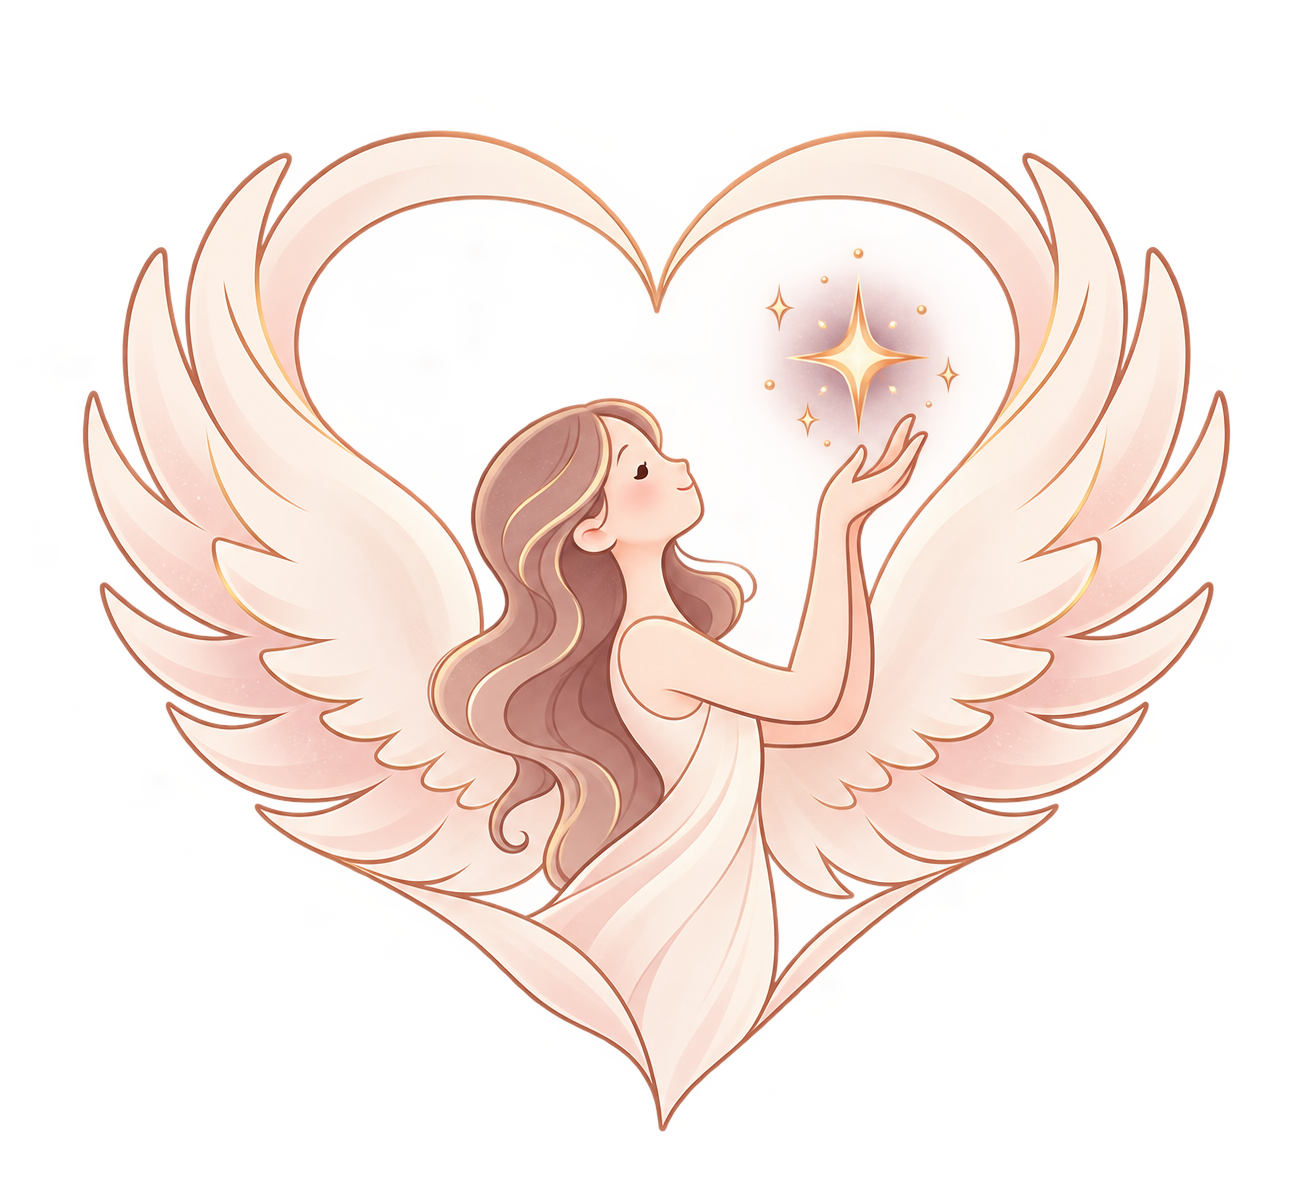
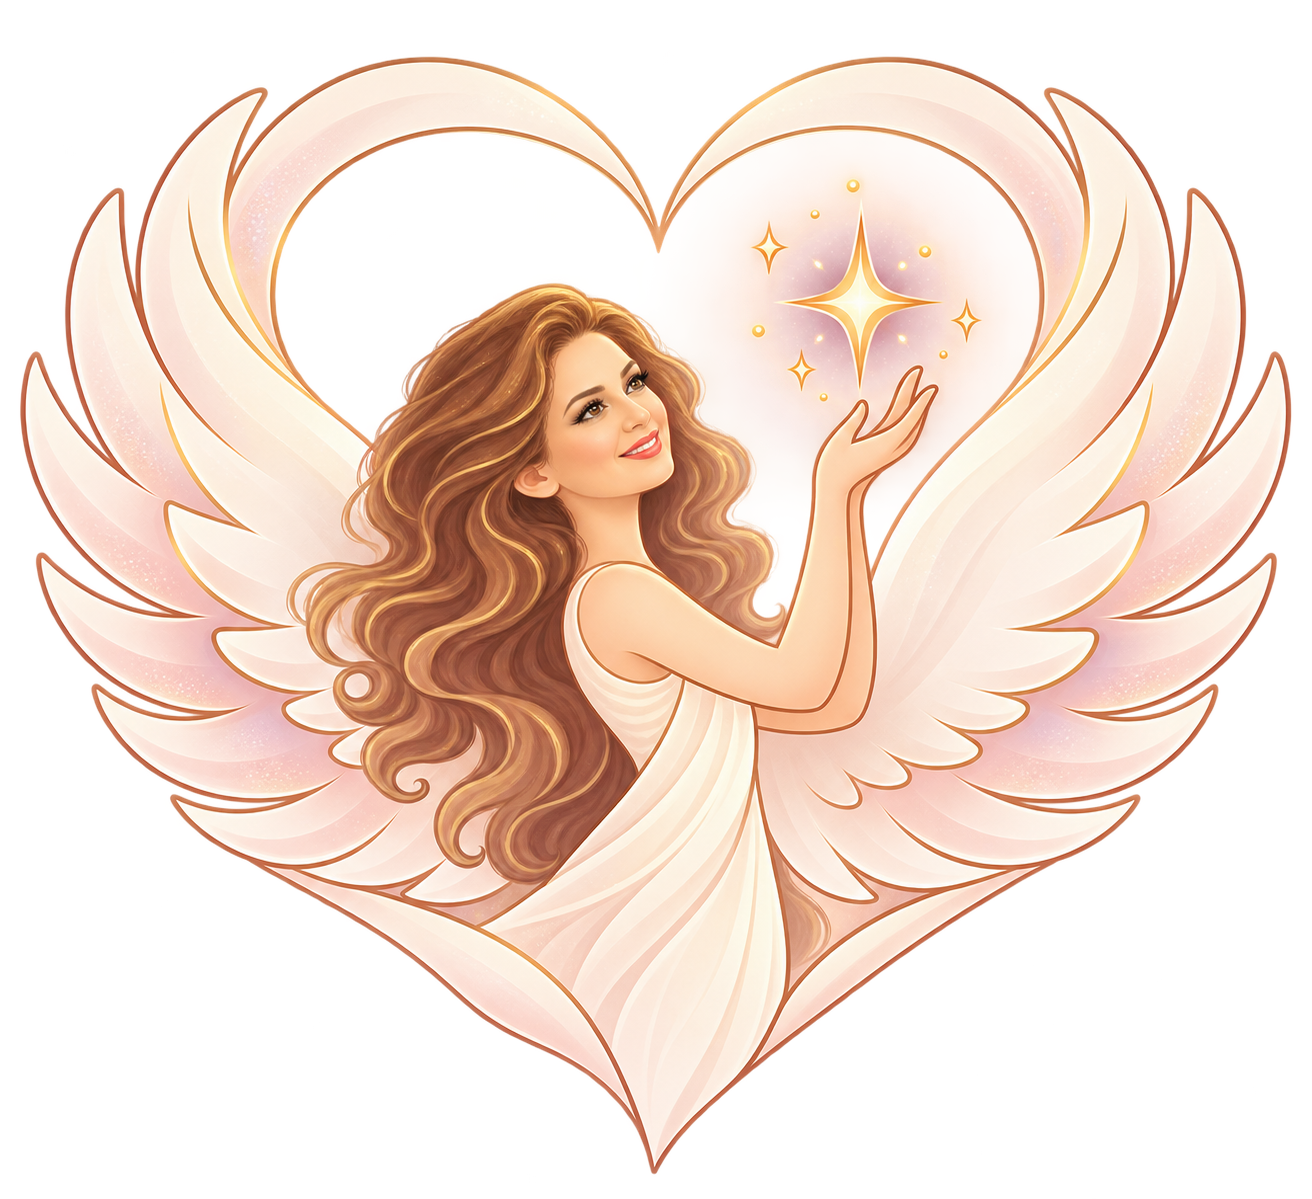
Add personalized angel companion with appearance and motion settings

diff --git a/src/components/AngelCompanion.tsx b/src/components/AngelCompanion.tsx
@@ -1,0 +1,49 @@
+import { useEffect, useRef, useState } from "react";
+import { useTranslation } from "react-i18next";
+import { MASCOT_EVENT, useMascotMode, useMascotLook, type MascotPose } from "@/lib/mascot";
+import "./AngelCompanion.css";
+
+const POSITIONS: Record<MascotPose, string> = { celebrate: "0% 0%", tomorrow: "100% 0%", garden: "0% 100%", thinking: "100% 100%" };
+export function MascotCharacter({ pose, busy = false, size = 112 }: { pose: MascotPose; busy?: boolean; size?: number }) {
+  const mode = useMascotMode();
+  const look = useMascotLook();
+  if (mode === "off") return null;
+  const image = look === "blonde" ? "angel-companion-poses" : `angel-companion-${look}`;
+  return <span aria-hidden="true" className={`companion-character companion-${pose} ${busy ? "companion-busy" : ""}`} data-mode={mode} data-look={look} style={{ width: size, height: size, backgroundPosition: POSITIONS[pose], backgroundImage: `url('/images/${image}.png')` }} />;
+}
+
+export function AngelCompanion() {
+  const mode = useMascotMode();
+  const look = useMascotLook();
+  const { i18n } = useTranslation();
+  const en = i18n.language.startsWith("en");
+  const [pose, setPose] = useState<MascotPose | null>(null);
+  const last = useRef(0);
+  useEffect(() => {
+    if (mode === "off") return;
+    const image = new Image();
+    image.src = `/images/${look === "blonde" ? "angel-companion-poses" : `angel-companion-${look}`}.png`;
+  }, [look, mode]);
+  useEffect(() => {
+    setPose(null);
+    if (mode === "off") { setPose(null); return; }
+    let timer: ReturnType<typeof setTimeout> | undefined;
+    const onMoment = (event: Event) => {
+      const next = (event as CustomEvent<MascotPose>).detail;
+      if (!Object.prototype.hasOwnProperty.call(POSITIONS, next) || Date.now() - last.current < 6000) return;
+      last.current = Date.now();
+      setPose(next);
+      clearTimeout(timer);
+      timer = setTimeout(() => setPose(null), mode === "calm" ? 1800 : 3000);
+    };
+    window.addEventListener(MASCOT_EVENT, onMoment);
+    return () => { clearTimeout(timer); window.removeEventListener(MASCOT_EVENT, onMoment); };
+  }, [mode]);
+  if (!pose || mode === "off") return null;
+  const labels = { celebrate: en ? "One lovely step forward!" : "یک قدم قشنگ جلو رفتی!", tomorrow: en ? "See you tomorrow!" : "برای فردا آمادهست!", garden: en ? "Your garden is growing!" : "باغت داره بزرگ میشه!", thinking: en ? "Let's think together." : "با هم فکر کنیم." };
+  return <aside className="companion-moment" data-mode={mode} key={pose} role="status" aria-live="polite">
+    <button className="companion-dismiss" onClick={() => setPose(null)} aria-label={en ? "Dismiss companion" : "بستن فرشته"}>×</button>
+    <MascotCharacter pose={pose} busy={pose === "thinking"} />
+    <span className="companion-caption">{labels[pose]}</span>
+  </aside>;
+}

diff --git a/src/components/auth/AngelLineArt.tsx b/src/components/auth/AngelLineArt.tsx
@@ -1,5 +1,6 @@
 import { useRef, type PointerEvent } from "react";
 import { cn } from "@/lib/utils";
+import { useMascotMode } from "@/lib/mascot";
 
 const SPARKS = [
   [782, 258, 5], [918, 254, 4], [965, 353, 6], [784, 406, 4],
@@ -8,13 +9,14 @@ const SPARKS = [
 
 /** The artwork and its light move together; pointer movement adds a gentle tilt. */
 export function AngelLineArt({ className }: { className?: string }) {
+  const mode = useMascotMode();
   const scene = useRef<HTMLSpanElement>(null);
   const resetTilt = () => {
     scene.current?.style.setProperty("--angel-tilt-x", "0deg");
     scene.current?.style.setProperty("--angel-tilt-y", "0deg");
   };
   const followPointer = (event: PointerEvent<HTMLSpanElement>) => {
-    if (event.pointerType !== "mouse" || window.matchMedia("(prefers-reduced-motion: reduce)").matches) return;
+    if (mode !== "full" || event.pointerType !== "mouse" || window.matchMedia("(prefers-reduced-motion: reduce)").matches) return;
     const bounds = event.currentTarget.getBoundingClientRect();
     if (!bounds.width || !bounds.height) return;
     const x = Math.max(-1, Math.min(1, (event.clientX - bounds.left) / bounds.width * 2 - 1));
@@ -28,6 +30,7 @@ export function AngelLineArt({ className }: { className?: string }) {
       role="img"
       aria-label="فرشتهای مهربان با بالهای قلبی که به ستارهای درخشان دست میزند"
       data-testid="auth-angel-art"
+      data-mode={mode}
       onPointerMove={followPointer}
       onPointerLeave={resetTilt}
     >
@@ -36,6 +39,7 @@ export function AngelLineArt({ className }: { className?: string }) {
           <span className="angel-aura" aria-hidden="true" />
           <img className="angel-illustration" src="/images/angel-cute.png" alt="" width={1312} height={1199} draggable={false} />
           <svg className="angel-light-layer" viewBox="0 0 1312 1199" aria-hidden="true" focusable="false">
+            <g transform="translate(0 -34)">
             <circle className="angel-light-ring" cx="860" cy="338" r="76" />
             <path className="angel-core-light" d="M860 301 Q866 332 891 338 Q866 344 860 375 Q854 344 829 338 Q854 332 860 301Z" />
             {SPARKS.map(([x, y, radius], index) => (
@@ -43,6 +47,7 @@ export function AngelLineArt({ className }: { className?: string }) {
                 <path d={`M${x} ${y - radius * 2} Q${x + radius / 2} ${y - radius / 2} ${x + radius * 2} ${y} Q${x + radius / 2} ${y + radius / 2} ${x} ${y + radius * 2} Q${x - radius / 2} ${y + radius / 2} ${x - radius * 2} ${y} Q${x - radius / 2} ${y - radius / 2} ${x} ${y - radius * 2}Z`} />
               </g>
             ))}
+            </g>
           </svg>
         </span>
       </span>

diff --git a/src/components/AngelCompanion.test.tsx b/src/components/AngelCompanion.test.tsx
@@ -1,0 +1,47 @@
+import { act, cleanup, render, screen } from "@testing-library/react";
+import { afterEach, beforeEach, describe, expect, it, vi } from "vitest";
+import { AngelCompanion, MascotCharacter } from "./AngelCompanion";
+import { setMascotMode, setMascotLook, showMascotMoment } from "@/lib/mascot";
+
+vi.mock("react-i18next", () => ({ useTranslation: () => ({ i18n: { language: "en" } }) }));
+beforeEach(() => { vi.useFakeTimers(); localStorage.clear(); setMascotMode("full"); setMascotLook("blonde"); });
+afterEach(() => { cleanup(); vi.useRealTimers(); });
+describe("angel companion controls", () => {
+  it("switches all character poses to the chosen hair style immediately", () => {
+    const { container } = render(<><MascotCharacter pose="celebrate" /><MascotCharacter pose="thinking" /></>);
+    act(() => setMascotLook("black"));
+    for (const character of container.querySelectorAll<HTMLElement>(".companion-character")) {
+      expect(character.dataset.look).toBe("black");
+      expect(character.style.backgroundImage).toContain("angel-companion-black.png");
+    }
+    expect(localStorage.getItem("arshnaz-mascot-look")).toBe("black");
+  });
+  it("keeps celebrations brief and avoids interrupting a burst of task edits", () => {
+    render(<AngelCompanion />);
+    act(() => showMascotMoment("celebrate"));
+    expect(screen.getByRole("status").textContent).toContain("One lovely step forward");
+    act(() => showMascotMoment("tomorrow"));
+    expect(screen.getByRole("status").textContent).toContain("One lovely step forward");
+    act(() => vi.advanceTimersByTime(3100));
+    expect(screen.queryByRole("status")).toBeNull();
+  });
+  it("turning off immediately hides both celebrations and AI companions", () => {
+    const { container } = render(<><AngelCompanion /><MascotCharacter pose="thinking" busy /></>);
+    act(() => showMascotMoment("celebrate"));
+    act(() => setMascotMode("off"));
+    expect(screen.queryByRole("status")).toBeNull();
+    expect(container.querySelector(".companion-character")).toBeNull();
+    act(() => { vi.advanceTimersByTime(7000); showMascotMoment("garden"); });
+    expect(screen.queryByRole("status")).toBeNull();
+  });
+  it("changing modes dismisses an existing moment instead of leaving it stuck", () => {
+    render(<AngelCompanion />);
+    act(() => showMascotMoment("garden"));
+    act(() => setMascotMode("calm"));
+    expect(screen.queryByRole("status")).toBeNull();
+    act(() => { vi.advanceTimersByTime(7000); showMascotMoment("tomorrow"); });
+    expect(screen.getByRole("status").getAttribute("data-mode")).toBe("calm");
+    act(() => vi.advanceTimersByTime(1900));
+    expect(screen.queryByRole("status")).toBeNull();
+  });
+});

diff --git a/src/components/AngelCompanion.css b/src/components/AngelCompanion.css
@@ -1,0 +1,17 @@
+.companion-character { display: inline-block; flex-shrink: 0; background-image: url('/images/angel-companion-poses.png'); background-size: 200% 200%; background-repeat: no-repeat; }
+.companion-moment { position: fixed; z-index: 60; bottom: calc(5.5rem + env(safe-area-inset-bottom)); left: max(12px, env(safe-area-inset-left)); display: flex; align-items: center; flex-direction: column; width: 155px; pointer-events: none; animation: companion-entrance .45s ease-out, companion-exit .4s ease-in 2.6s forwards; }
+.companion-caption { max-width: 155px; padding: 5px 10px; text-align: center; font-size: 11px; line-height: 1.6; color: hsl(var(--foreground)); background: hsl(var(--background) / .94); border: 1px solid hsl(var(--border)); border-radius: 14px; box-shadow: 0 3px 15px #0000000a; }
+.companion-dismiss { position: absolute; top: 0; right: 3px; width: 28px; height: 28px; border-radius: 50%; pointer-events: auto; color: hsl(var(--muted-foreground)); background: hsl(var(--background) / .9); font-size: 20px; }
+.companion-moment[data-mode=full] .companion-celebrate { animation: companion-happy 1.1s ease-in-out 2; }
+.companion-moment[data-mode=full] .companion-tomorrow { animation: companion-deliver 2.4s ease-in-out; }
+.companion-moment[data-mode=full] .companion-garden { animation: companion-water 1.2s ease-in-out 2; }
+.companion-busy[data-mode=full] { animation: companion-think 3s ease-in-out infinite; }
+.companion-moment[data-mode=calm] { animation: companion-fade .25s ease-out; }
+@keyframes companion-entrance { from { opacity: 0; transform: translateY(12px) scale(.95); } to { opacity: 1; transform: none; } }
+@keyframes companion-exit { to { opacity: 0; transform: translateY(8px); } }
+@keyframes companion-fade { from { opacity: 0; } to { opacity: 1; } }
+@keyframes companion-happy { 0%,100% { transform: translateY(0) rotate(0); } 40% { transform: translateY(-9px) rotate(-4deg); } 70% { transform: translateY(-3px) rotate(3deg); } }
+@keyframes companion-deliver { 0%,100% { transform: translateX(0); } 45% { transform: translateX(8px) translateY(-5px) rotate(3deg); } }
+@keyframes companion-water { 0%,100% { transform: rotate(0); } 50% { transform: rotate(-4deg) translateY(-3px); } }
+@keyframes companion-think { 0%,100% { transform: translateY(0); } 50% { transform: translateY(-4px); } }
+@media (prefers-reduced-motion: reduce) { .companion-moment, .companion-character { animation: none !important; } }

diff --git a/src/pages/settings/CompanionSettings.tsx b/src/pages/settings/CompanionSettings.tsx
@@ -1,0 +1,23 @@
+import { useTranslation } from "react-i18next";
+import { setMascotMode, useMascotMode, setMascotLook, useMascotLook, type MascotMode, type MascotLook } from "@/lib/mascot";
+import { MascotCharacter } from "@/components/AngelCompanion";
+import { SectionCard } from "./SectionCard";
+
+export function CompanionSettings() {
+  const { i18n } = useTranslation();
+  const en = i18n.language.startsWith("en");
+  const mode = useMascotMode();
+  const look = useMascotLook();
+  return <SectionCard title={en ? "Little angel companion" : "فرشتهٔ کوچولوی همراه"} description={en ? "Gentle moments for tasks, plants and AI. This device only; always silent." : "همراهی کوتاه برای تسکها، گلها و هوش مصنوعی؛ بدون صدا. تنظیم این دستگاه."}>
+    <div className="flex items-center gap-4"><MascotCharacter pose="celebrate" size={70} /><div className="flex-1">
+      <label className="text-sm" htmlFor="companion-mode">{en ? "Companion animations" : "نمایش و انیمیشن فرشته"}</label>
+      <select id="companion-mode" value={mode} onChange={e => setMascotMode(e.target.value as MascotMode)} className="mt-2 block w-full rounded-md border bg-background p-2 text-sm">
+        <option value="full">{en ? "Full — gentle animations" : "کامل — حرکتهای نرم"}</option><option value="calm">{en ? "Calm — brief, minimal motion" : "آرام — کوتاه و کمحرکت"}</option><option value="off">{en ? "Off" : "خاموش"}</option>
+      </select>
+      <label className="mt-4 block text-sm" htmlFor="companion-look">{en ? "Little companion's look" : "ظاهر فرشتهٔ کوچولو"}</label>
+      <select id="companion-look" value={look} onChange={e => setMascotLook(e.target.value as MascotLook)} className="mt-2 block w-full rounded-md border bg-background p-2 text-sm">
+        <option value="blonde">{en ? "Golden hair" : "موی طلایی"}</option><option value="brown">{en ? "Chestnut curls" : "موی قهوهای فرفری"}</option><option value="black">{en ? "Black curls" : "موی مشکی فرفری"}</option>
+      </select>
+    </div></div>
+  </SectionCard>;
+}

diff --git a/src/lib/mascot.ts b/src/lib/mascot.ts
@@ -1,0 +1,37 @@
+import { useSyncExternalStore } from "react";
+
+export type MascotMode = "full" | "calm" | "off";
+export type MascotPose = "celebrate" | "tomorrow" | "garden" | "thinking";
+export type MascotLook = "blonde" | "brown" | "black";
+const LOOK_KEY = "arshnaz-mascot-look";
+let fallbackLook: MascotLook = "brown";
+const KEY = "arshnaz-mascot-mode";
+const CHANGE = "arshnaz-mascot-preference";
+let fallbackMode: MascotMode = "full";
+export const MASCOT_EVENT = "arshnaz-mascot-moment";
+export function getMascotMode(): MascotMode {
+  try { const value = localStorage.getItem(KEY); return value === "off" || value === "calm" || value === "full" ? value : fallbackMode; } catch { return fallbackMode; }
+}
+export function setMascotMode(mode: MascotMode) {
+  fallbackMode = mode;
+  try { localStorage.setItem(KEY, mode); } catch { /* Storage may be unavailable. */ }
+  window.dispatchEvent(new Event(CHANGE));
+}
+function subscribe(listener: () => void) {
+  window.addEventListener(CHANGE, listener);
+  window.addEventListener("storage", listener);
+  return () => { window.removeEventListener(CHANGE, listener); window.removeEventListener("storage", listener); };
+}
+export function useMascotMode() { return useSyncExternalStore(subscribe, getMascotMode, () => "off" as MascotMode); }
+export function getMascotLook(): MascotLook {
+  try { const value = localStorage.getItem(LOOK_KEY); return value === "brown" || value === "black" || value === "blonde" ? value : fallbackLook; } catch { return fallbackLook; }
+}
+export function setMascotLook(look: MascotLook) {
+  fallbackLook = look;
+  try { localStorage.setItem(LOOK_KEY, look); } catch { /* Keep the session preference. */ }
+  window.dispatchEvent(new Event(CHANGE));
+}
+export function useMascotLook() { return useSyncExternalStore(subscribe, getMascotLook, () => "brown" as MascotLook); }
+export function showMascotMoment(pose: MascotPose) {
+  if (typeof window !== "undefined" && getMascotMode() !== "off") window.dispatchEvent(new CustomEvent(MASCOT_EVENT, { detail: pose }));
+}

diff --git a/src/lib/firestoreDataService.ts b/src/lib/firestoreDataService.ts
@@ -1,3 +1,4 @@
+import { showMascotMoment } from "./mascot";
 import { reconcileRemoteRowsWithPending } from "./offlineReconcile";
 import {
   db,
@@ -276,7 +277,8 @@ async function rollbackOptimisticTaskWrite(
  */
 export async function persistTask(
   userId: string,
-  task: Partial<Task> & { id: string }
+  task: Partial<Task> & { id: string },
+  options: { quietCompanion?: boolean } = {},
 ): Promise<TaskPersistenceStatus> {
   if (!userId || !task.id) return "failed";
   const dataToSave = {
@@ -309,9 +311,21 @@ export async function persistTask(
   }
 
   // 2. Persist to Firestore
+  const celebrateAcceptedChange = () => {
+    if (!previousTask || options.quietCompanion) return;
+    if (task.completed === true && !previousTask.completed) showMascotMoment("celebrate");
+    else if (task.due_date && task.due_date !== previousTask.due_date) {
+      const tomorrow = new Date(); tomorrow.setDate(tomorrow.getDate() + 1);
+      const localDate = `${tomorrow.getFullYear()}-${String(tomorrow.getMonth() + 1).padStart(2, "0")}-${String(tomorrow.getDate()).padStart(2, "0")}`;
+      const date = new Date(task.due_date);
+      const taskDate = task.due_date.length === 10 ? task.due_date : `${date.getFullYear()}-${String(date.getMonth() + 1).padStart(2, "0")}-${String(date.getDate()).padStart(2, "0")}`;
+      if (taskDate === localDate) showMascotMoment("tomorrow");
+    }
+  };
   try {
     const taskRef = doc(db, "users", userId, "tasks", task.id);
     await setDoc(taskRef, dataToSave, { merge: true });
+    celebrateAcceptedChange();
     return "saved";
   } catch (err) {
     console.warn("[FirestoreData] task write deferred to offline outbox:", err);
@@ -341,6 +355,7 @@ export async function persistTask(
     if (!queued) {
       await rollbackOptimisticTaskWrite(userId, task.id, dataToSave, previousTask, previousIndex);
     }
+    if (queued) celebrateAcceptedChange();
     return queued ? "queued" : "failed";
   }
 }
@@ -1292,5 +1307,3 @@ export function subscribeSocraticSession(
     return () => {};
   }
 }
-
-

diff --git a/src/lib/recurringTaskService.ts b/src/lib/recurringTaskService.ts
@@ -1,6 +1,7 @@
 import { addDays, addMonths, addYears, format } from "date-fns";
 import { firebaseStore } from "./firebaseStore";
 import { persistTask } from "./firestoreDataService";
+import { showMascotMoment } from "./mascot";
 import { getCachedTasks } from "@/features/tasks/taskService";
 import { buildTaskChildrenMap, collectTaskDescendantIds } from "@/features/tasks/taskTree";
 import { nextOccurrence, type RecurrenceRule } from "./recurrence";
@@ -200,7 +201,7 @@ export async function advanceRecurringTask(
         }
       }
 
-      await persistTask(userId, subPatch).catch((e) =>
+      await persistTask(userId, subPatch, { quietCompanion: true }).catch((e) =>
         console.warn("[RecurringTaskService] Failed to reset subtask:", sub.id, e)
       );
     }
@@ -226,10 +227,11 @@ export async function advanceRecurringTask(
   }
 
   // 3. Persist the main task
-  const status = await persistTask(userId, taskPatch);
+  const status = await persistTask(userId, taskPatch, { quietCompanion: true });
   if (status === "failed") {
     return { success: false, error: new Error("Could not persist advanced recurring task") };
   }
+  showMascotMoment("celebrate");
 
   // 4. Log activity
   await logTaskActivity(task.id, userId, "recurrence_advanced", {

diff --git a/src/index.css b/src/index.css
@@ -1812,6 +1812,9 @@ html[lang^="en"] body { font-feature-settings: "cv11"; }
 .angel-core-light { fill: #fff6d8; transform-box: fill-box; transform-origin: center; animation: angel-breathe 3.4s ease-in-out infinite; filter: drop-shadow(0 0 9px #ffe3a7); }
 .angel-light-ring { fill: none; stroke: #e5ba88; stroke-width: 2; transform-box: fill-box; transform-origin: center; animation: angel-ripple 4s ease-out infinite; }
 .angel-stardust { fill: #e8bb86; animation: angel-stardust 5.6s ease-in-out infinite; }
+.angel-stage[data-mode=off] *, .angel-stage[data-mode=calm] * { animation: none !important; }
+.angel-stage[data-mode=off] .angel-light-layer, .angel-stage[data-mode=calm] .angel-light-ring { display: none; }
+.angel-stage[data-mode=off] .angel-scene, .angel-stage[data-mode=calm] .angel-scene { transform: none; }
 @keyframes angel-reveal { from { opacity: 0; } to { opacity: 1; } }
 @keyframes angel-float { 0%, 100% { transform: translateY(0) rotate(0deg); } 50% { transform: translateY(-8px) rotate(-.6deg); } }
 @keyframes angel-breathe { 0%, 100% { opacity: .35; transform: scale(.78); } 50% { opacity: .95; transform: scale(1.08); } }

diff --git a/src/components/FolderAIChat.tsx b/src/components/FolderAIChat.tsx
@@ -1,5 +1,6 @@
+import { MascotCharacter } from "@/components/AngelCompanion";
 import { useState, useEffect, useRef } from "react";
-import { Sparkles, Send, Loader2, Globe, MessageCircleQuestion, MessageSquare, Wand2, LayoutGrid, List } from "lucide-react";
+import { Send, Loader2, Globe, MessageCircleQuestion, MessageSquare, Wand2, LayoutGrid, List } from "lucide-react";
 import { Dialog, DialogContent, DialogHeader, DialogTitle } from "@/components/ui/dialog";
 import { Button } from "@/components/ui/button";
 import { Textarea } from "@/components/ui/textarea";
@@ -157,7 +158,7 @@ export default function FolderAIChat({
       <DialogContent className="max-w-2xl h-[85vh] flex flex-col p-0 gap-0">
         <DialogHeader className="p-4 border-b">
           <DialogTitle className="flex items-center gap-2 text-base">
-            <Sparkles className="w-5 h-5 text-primary" />
+            <MascotCharacter pose="thinking" busy={loading} size={48} />
             چت AI روی فولدر «{folderName}»
           </DialogTitle>
         </DialogHeader>

diff --git a/src/lib/garden.ts b/src/lib/garden.ts
@@ -1,3 +1,4 @@
+import { showMascotMoment } from "./mascot";
 import { toast } from "sonner";
 
 export type PlantType = "rose" | "bonsai" | "orchid" | "lotus" | "palm" | "bamboo";
@@ -350,8 +351,10 @@ function writeGardenState(state: GardenState) {
 }
 
 export function saveGardenState(state: GardenState) {
+  const previous = getGardenState().activePlant;
   writeGardenState({ ...state, updatedAt: Date.now() });
   gardenCloud?.push();
+  if (previous && state.activePlant?.id === previous.id && state.activePlant.stage > previous.stage) showMascotMoment("garden");
 }
 
 export function awardWaterDrops(amount: number, reason: string): number {

diff --git a/src/App.tsx b/src/App.tsx
@@ -1,3 +1,4 @@
+import { AngelCompanion } from "@/components/AngelCompanion";
 import { lazy, Suspense, useEffect, useRef } from "react";
 import { QueryClient, QueryClientProvider } from "@tanstack/react-query";
 import { BrowserRouter, Route, Routes, Navigate, useNavigate, useLocation } from "react-router-dom";
@@ -282,6 +283,7 @@ const App = () => {
             <BrowserRouter>
               <CapacitorUrlHandler />
               <AuthProvider>
+                <AngelCompanion />
                 <Suspense fallback={<RouteFallback />}>
                   <Routes>
                     <Route path="/" element={<Index />} />
